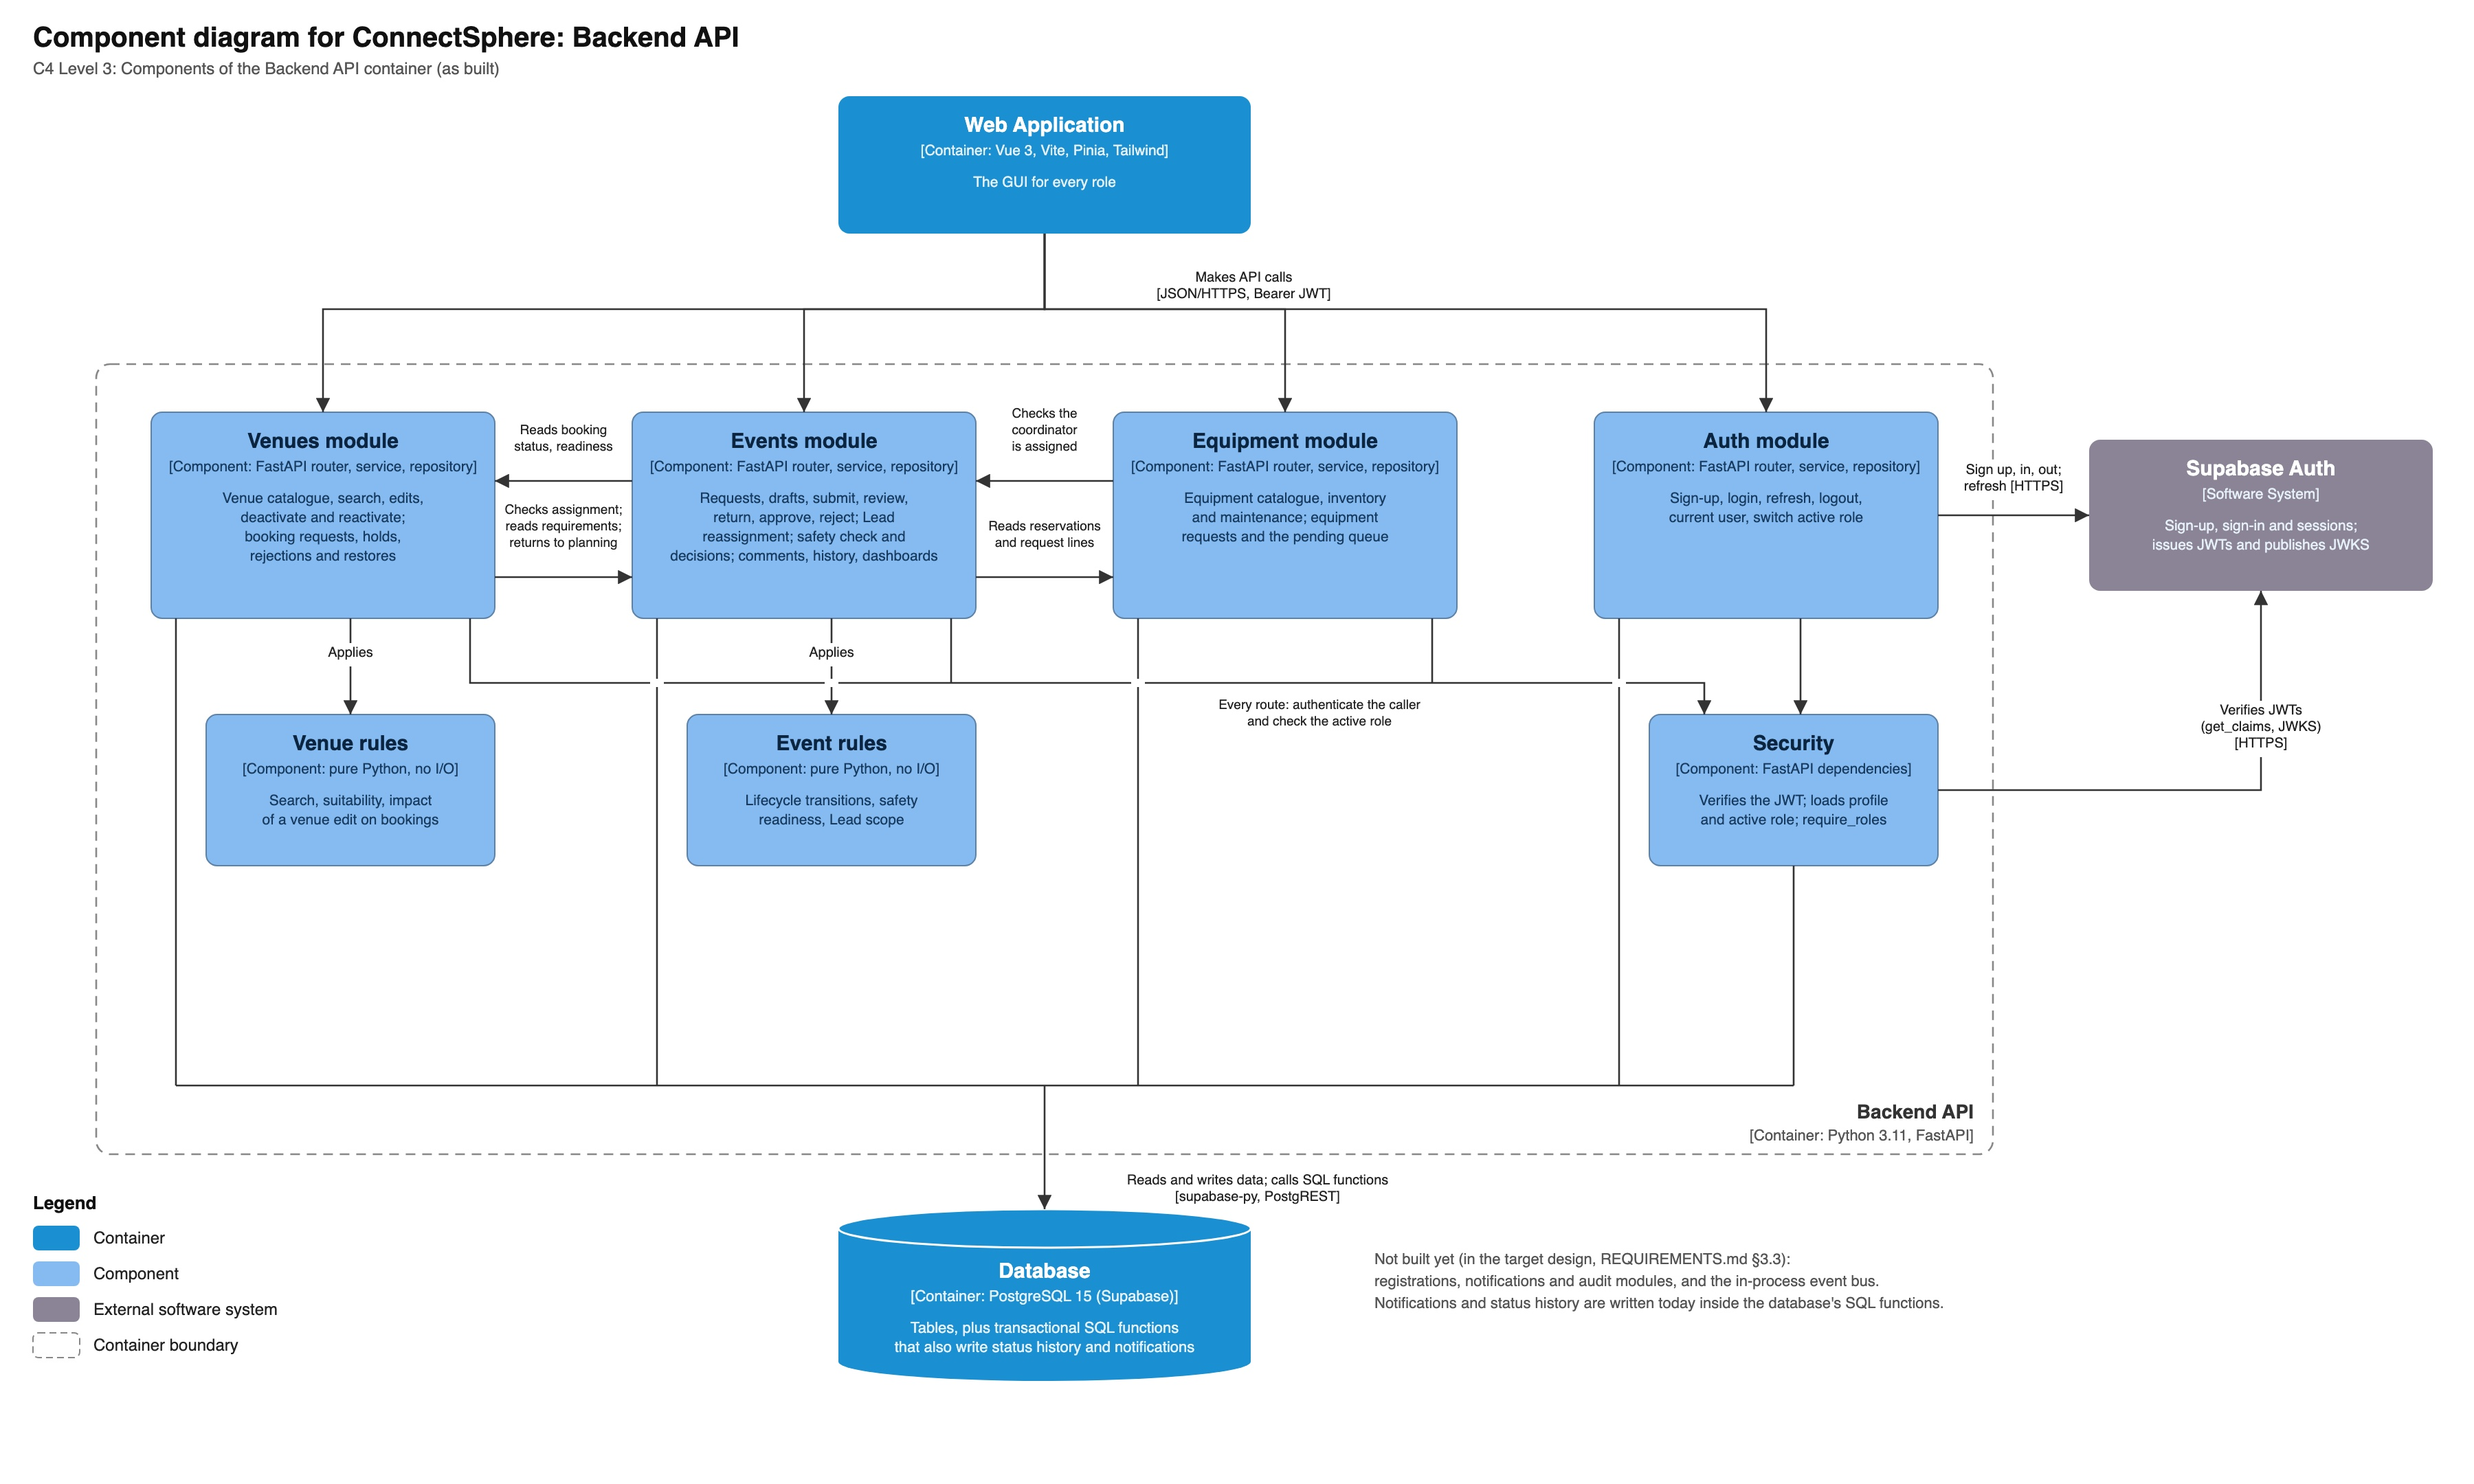
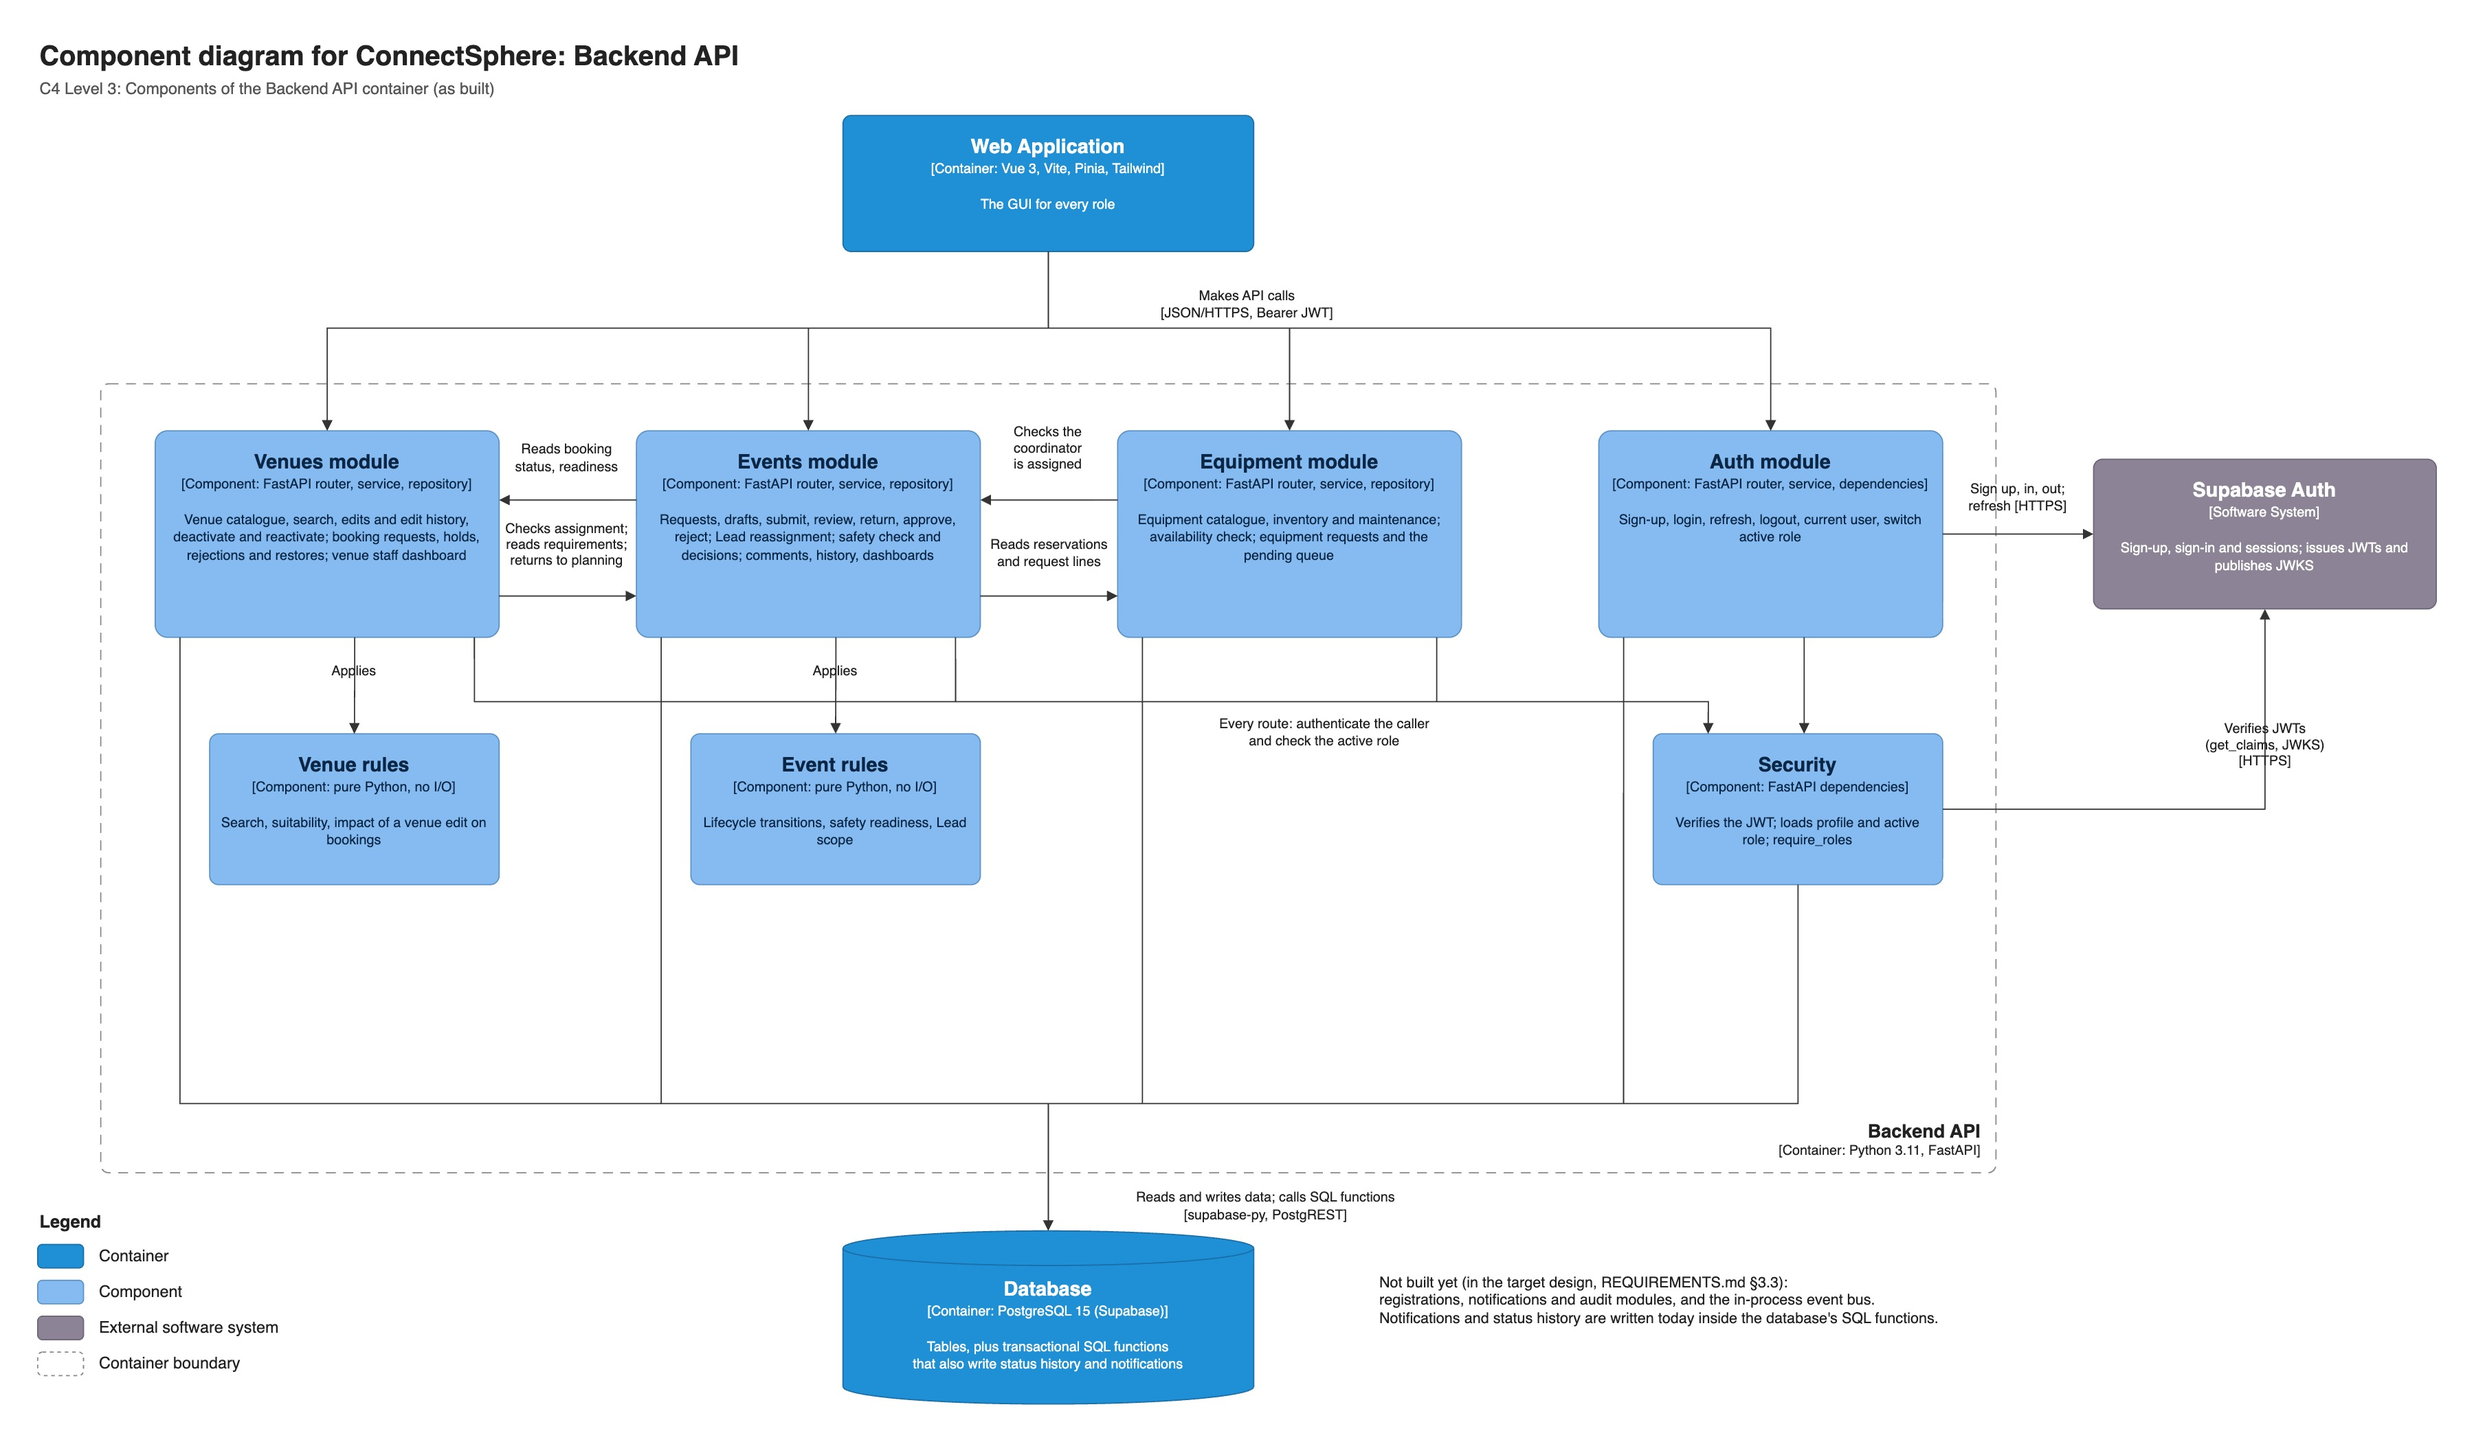
docs(diagrams): add draw.io source and corrected Level 3 image
The Level 3 image still showed the auth module as "router, service,
repository" and lacked the venue edit history, venue staff dashboard
and equipment availability check that the Mermaid text now lists. Add
an editable draw.io source with those corrections, re-export the JPG
from it, and link the source from §3.3 so the next edit starts there.

diff --git a/docs/REQUIREMENTS.md b/docs/REQUIREMENTS.md
@@ -217,6 +217,8 @@ C4Container
 
 ![C4 Level 3: components of the Backend API (as built)](diagrams/c4-l3-backend-components.jpg)
 
+Source: [c4-l3-backend-components.drawio](diagrams/c4-l3-backend-components.drawio). Open it in draw.io, edit, and re-export the JPG to the same path.
+
 <details>
 <summary>Mermaid text version of this diagram</summary>
 
